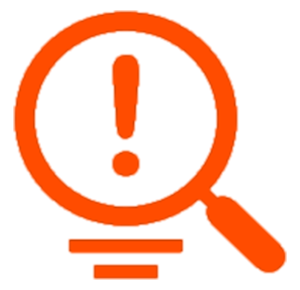
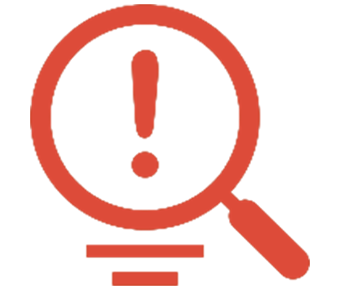
css are changed

diff --git a/projects.html b/projects.html
@@ -12,9 +12,31 @@
     <link href="font-awesome/css/font-awesome.css" rel="stylesheet">
 
     <link href="css/animate.css" rel="stylesheet">
+	<!-- Sweet Alert -->
+    <link href="css/plugins/sweetalert/sweetalert.css" rel="stylesheet">
     <link href="css/style.css" rel="stylesheet">
     <link href="css/custom.css" rel="stylesheet">
-
+	<style>
+		.sweet-alert button {background-color:#1ab394 !important;}
+		.sweet-alert button.cancel {background-color:red !Important;}
+		.sweet-alert .sa-icon.sa-success .sa-line {background-color:#1ab394 !important;}
+		.sweet-alert .sa-icon.sa-success, .sweet-alert .sa-icon.sa-warning {border-color:#1ab394 !important;}
+		.sweet-alert .sa-icon, .sweet-alert .sa-icon.sa-success .sa-placeholder {border:4px solid #1ab394 !important; width:60px; height:60px;}
+		.sweet-alert .sa-icon.sa-warning .sa-body, .sweet-alert .sa-icon.sa-warning .sa-dot {background-color:#ff8100 !Important;}
+		.sweet-alert button {padding:5px 25px; font-size:15px;}
+		.sweet-alert .sa-icon.sa-warning .sa-body {height: 25px;}
+		.sweet-alert .sa-icon.sa-success .sa-line.sa-tip {
+    width: 19px;
+    left: 10px;
+    top: 40px;
+}
+.sweet-alert .sa-icon.sa-success .sa-line.sa-long {
+    width: 38px;
+    right: 4px;
+    top: 33px;
+   
+}
+	</style>
 </head>
 
 <body class="">
@@ -214,7 +236,7 @@
 								<td>
 									<a href=""><i data-placement="top" data-toggle="tooltip" data-original-title="Edit" class="fa fa-pencil edit-icon" aria-hidden="true"></i></a>
 									<a href="viewproject.html"><i class="fa fa-eye view-icon" data-placement="top" data-toggle="tooltip" data-original-title="View" aria-hidden="true"></i></a>
-									<a href=""><i class="fa fa-trash delete-icon" data-placement="top" data-toggle="tooltip" data-original-title="Delete" aria-hidden="true"></i></a>
+									<a href="#" class="demo3"><i class="fa fa-trash delete-icon" data-placement="top" data-toggle="tooltip" data-original-title="Delete" aria-hidden="true"></i></a>
 								</td>
 							</tr>
 							<tr>
@@ -228,7 +250,7 @@
 								<td>
 									<a href=""><i data-placement="top" data-toggle="tooltip" data-original-title="Edit" class="fa fa-pencil edit-icon" aria-hidden="true"></i></a>
 									<a href="viewproject.html"><i class="fa fa-eye view-icon" data-placement="top" data-toggle="tooltip" data-original-title="View" aria-hidden="true"></i></a>
-									<a href=""><i class="fa fa-trash delete-icon" data-placement="top" data-toggle="tooltip" data-original-title="Delete" aria-hidden="true"></i></a>
+									<a href="#" class="demo3"><i class="fa fa-trash delete-icon" data-placement="top" data-toggle="tooltip" data-original-title="Delete" aria-hidden="true"></i></a>
 								</td>
 							</tr>
 							<tr>
@@ -242,7 +264,7 @@
 								<td>
 									<a href=""><i data-placement="top" data-toggle="tooltip" data-original-title="Edit" class="fa fa-pencil edit-icon" aria-hidden="true"></i></a>
 									<a href="viewproject.html"><i class="fa fa-eye view-icon" data-placement="top" data-toggle="tooltip" data-original-title="View" aria-hidden="true"></i></a>
-									<a href=""><i class="fa fa-trash delete-icon" data-placement="top" data-toggle="tooltip" data-original-title="Delete" aria-hidden="true"></i></a>
+									<a href="#" class="demo3"><i class="fa fa-trash delete-icon" data-placement="top" data-toggle="tooltip" data-original-title="Delete" aria-hidden="true"></i></a>
 								</td>
 							</tr>
 						</tbody>
@@ -262,12 +284,30 @@
     <!-- Custom and plugin javascript -->
     <script src="js/inspinia.js"></script>
     <script src="js/plugins/pace/pace.min.js"></script>
+	<script src="js/plugins/sweetalert/sweetalert.min.js"></script>
 	<script>
 	$(function () {
 	  $('[data-toggle="tooltip"]').tooltip()
 	})
 	</script>
+	<script>
+    $(document).ready(function () {
+        $('.demo3').click(function () {
+            swal({
+                title: "Are you sure?",
+                text: "You will not be able to recover this record!",
+                type: "warning",
+                showCancelButton: true,
+                confirmButtonColor: "#1ab394",
+                confirmButtonText: "Delete!",
+                closeOnConfirm: false
+            }, function () {
+                swal("Deleted!", "Your record has been deleted.", "success");
+            });
+        });
+    });
 
+</script>
 </body>
 
 </html>

diff --git a/css/custom.css b/css/custom.css
@@ -9,7 +9,7 @@
 .vulnerabilities .ibox-content {overflow:hidden; position:relative; padding-bottom:10px;}
 .vulnerabilities .ibox-content img {position:absolute; right:0; top:-32px;}
 .vulnerabilities .ibox-content small {margin-bottom:10px;}
-.vulnerabilities .ibox-title {background-color:#ff4c00; color:#fff;}
+.vulnerabilities .ibox-title {background-color:#dd4b39 !important; color:#fff;}
 
 
 .upgrades .ibox-content {overflow:hidden; position:relative; padding-bottom:10px;}
@@ -116,7 +116,7 @@
   transform-origin: left;
   transition: transform 300ms cubic-bezier(0.215, 0.61, 0.355, 1);
   background-color: #1ab394;
-  height: 2px;
+  height: 2px; width:75%;
 }
 .ui-input input + label span, .ui-input textarea + label span {
   position: relative;
@@ -228,7 +228,7 @@
   }
 }
 #Email {position:relative;}
-#Email i {position:absolute; right:96px; top:-30px; background-color:#1ab394; color:#fff; padding:8px;}
+#Email i {position:absolute; right:170px; top:-30px; background-color:#1ab394; color:#fff; padding:8px;}
 #Email i:hover {cursor:pointer;}
 
 .custom-hr {width:98%;border: 0 none;
@@ -324,7 +324,7 @@
 
 .appname h3 {margin-top:5px; margin-bottom:5px;}
 
-.redbg {background-color:red; width:15px; height:15px; border-radius:20px;}
+.redbg {background-color:#dd4b39;; width:15px; height:15px; border-radius:20px;}
 .greenbg {background-color:green; width:15px; height:15px; border-radius:20px;}
 .orangebg {background-color:orange; width:15px; height:15px; border-radius:20px;}
 
@@ -530,3 +530,9 @@
 
 .logo {padding:10px;}
 .nav-header {padding:10px 25px;}
+
+#Email input {width:60% !important;}
+
+#Email input + label::after {
+  width:60%;
+}

diff --git a/addproject.html b/addproject.html
@@ -55,7 +55,8 @@
 
         </div>
     </nav>
-	<div id="page-wrapper" class="gray-bg">
+
+        <div id="page-wrapper" class="gray-bg">
         <div class="row border-bottom">
         <nav class="navbar navbar-static-top white-bg" role="navigation" style="margin-bottom: 0">
         <div class="navbar-header">
@@ -207,14 +208,14 @@
 									
 									<fieldset class="form-fieldset ui-input __second">
 							
-									  <textarea rows="2"></textarea>
+									  <textarea rows="4"></textarea>
 									  <label for="description">
 										<span data-text="description">Description</span>
 									  </label>
 									</fieldset>
 									
 									<fieldset class="form-fieldset ui-input __third">
-									  <textarea rows="2"></textarea>
+									  <textarea rows="4"></textarea>
 									  <label for="tags (Optional)">
 										<span data-text="tags (Optional)">Tags (Optional)</span>
 									  </label>

diff --git a/empty_page.html b/empty_page.html
@@ -43,7 +43,7 @@
                     </div>
                 </li>
                 <li>
-                    <a href="index.html"><i class="fa fa-th-large"></i> <span class="nav-label">Dashboard</span> <span class="fa arrow"></span></a>
+                    <a href="index.html"><i class="fa fa-th-large"></i> <span class="nav-label">Dashboards</span> <span class="fa arrow"></span></a>
                     <ul class="nav nav-second-level collapse">
                         <li><a href="index.html">Dashboard v.1</a></li>
                         <li><a href="dashboard_2.html">Dashboard v.2</a></li>
